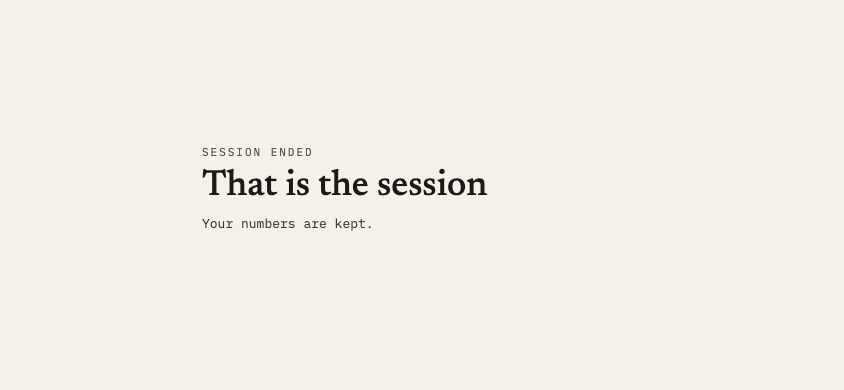
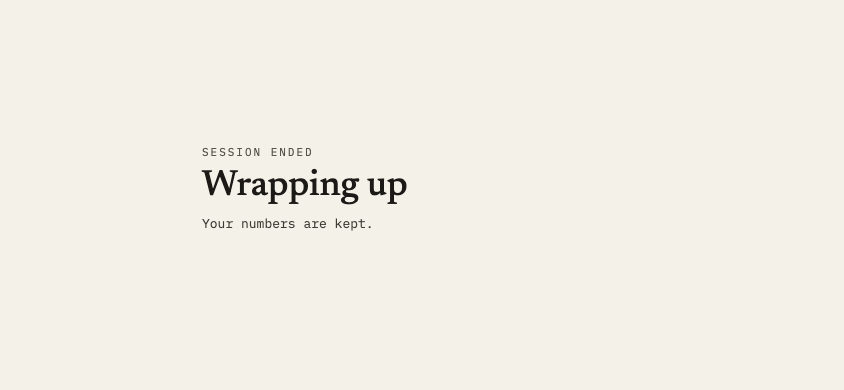
Task 5 step 3/4: regenerate connected-ended captures; reconcile e2e for the hold
- docs/screenshots/connected-ended{,-landscape}.png regenerated via
  pnpm screenshots (both opened and inspected — approved copy renders,
  no layout change); other captures that churned on the same run were
  investigated and are pure date-label drift (AUG 25 -> AUG 29, unrelated
  to this change) and were reverted, not committed
- e2e/connected.spec.ts: the End flow's "one-render flash" comment and
  assertion updated — a link-up End is now a third burst-eligible arm
  (spec §2), so handoffHeld briefly opens; the walk delivers a scripted
  0x0039 so it resolves on burst-heard (~200ms) rather than paying the
  full 2000ms backstop, and the text assertion now waits for the
  approved "Wrapping up" headline instead of the retired "That is the
  session"
- full pnpm e2e: 422 passed, exit 0 (incl. connected.spec.ts)

Correction to the task brief: the brief said "the fake DOES script a
terminate burst" (transports/fake.ts ~1559) — that line is unrelated
(FakeBurst.pendingBurst bookkeeping). Read `onArmedFrameComplete`
(fake.ts:2314, the End-triggered standalone terminate handler): it
synthesizes a terminated status and re-arms the machine but schedules
no burst. No burst was ever auto-scripted for the End arm; this is a
code-reading finding, not a timed empirical run of the unmodified
spec — the scripted deliverSummary() call added here is what makes the
walk resolve on burst-heard instead of the 2000ms backstop.

Changed region(s): [[0.2156, 0.4308, 0.5853, 0.5231]]

diff --git a/app/e2e/connected.spec.ts b/app/e2e/connected.spec.ts
@@ -699,18 +699,26 @@ async function walkSurfaceToLog(
   ).toBeVisible();
   await page.getByRole("button", { name: "Tap again to end" }).click();
 
-  // THE ENDED HAND-OFF FRAME — genuinely a ONE-RENDER flash for a
-  // user-initiated End (`ConnectedSurface.tsx`'s own header: `handoffHeld`
-  // stays `false` for `endedBy: "user"`, so `onEnded()` fires on the very
-  // next render and the caller navigates immediately). A plain
-  // `toBeVisible()` here raced that window under full-suite CPU load
-  // (caught directly investigating this task's own two new
-  // `boundingBox()` round trips just above — 6/6 green in isolation, an
-  // intermittent miss only under the full 279-test parallel run) and is
-  // not this task's frame to make less transient. Whichever of "the frame
-  // painted" or "navigation already landed" happens first is equally good
-  // proof End worked.
-  //
+  // THE ENDED HAND-OFF FRAME — NO LONGER a one-render flash for a
+  // user-initiated End (machine-summary hold spec §2, storage-spine
+  // design). A link-up End is now the THIRD burst-eligible arm:
+  // `endSession` opens the burst condition (`openBurstHold()`) the same
+  // way a machine finish or a Menu terminate does, so `handoffHeld` is
+  // briefly `true` and `onEnded()` — and this walk's own navigation — wait
+  // for it to resolve rather than firing on the very next render. Real
+  // hardware resolves this in ≈0.3-0.6s (spec §2's own corpus,
+  // `end-on-interval-1-recording`'s 558.6ms being the measured worst case
+  // for this exact arm); this walk delivers a scripted 0x0039 right here
+  // so the release comes from `burst-heard`, matching that typical case,
+  // rather than from the hold's own 2000ms backstop (`BURST_HANDOFF_HOLD_MS`)
+  // — a real but much slower path this walk is not testing.
+  await page.evaluate(() => {
+    window.__pm5FakeControls__?.deliverSummary({
+      elapsedSeconds: 100,
+      meters: 500,
+    });
+  });
+
   // `Promise.any`, NOT `Promise.race` (task-6 review, I4 — this is a
   // disclosed retirement-and-restoration, not a silent weakening). The
   // first version of this raced two promises that each swallowed their own
@@ -720,9 +728,12 @@ async function walkSurfaceToLog(
   // this walk. `any` resolves on the first FULFILMENT and rejects with an
   // `AggregateError` if both fail — so the tolerance for which of the two
   // wins survives, and a double failure still fails here, on this line,
-  // naming both branches.
+  // naming both branches. "Wrapping up" (spec §4's approved headline,
+  // replacing the retired "That is the session") is on screen for however
+  // long the hold takes, held or not — this text no longer distinguishes
+  // the two.
   await Promise.any([
-    page.getByText("That is the session").waitFor({ state: "visible" }),
+    page.getByText("Wrapping up").waitFor({ state: "visible" }),
     page.waitForURL(/\/library\/[^/]+\/log\?from=monitor$/),
   ]);
 
